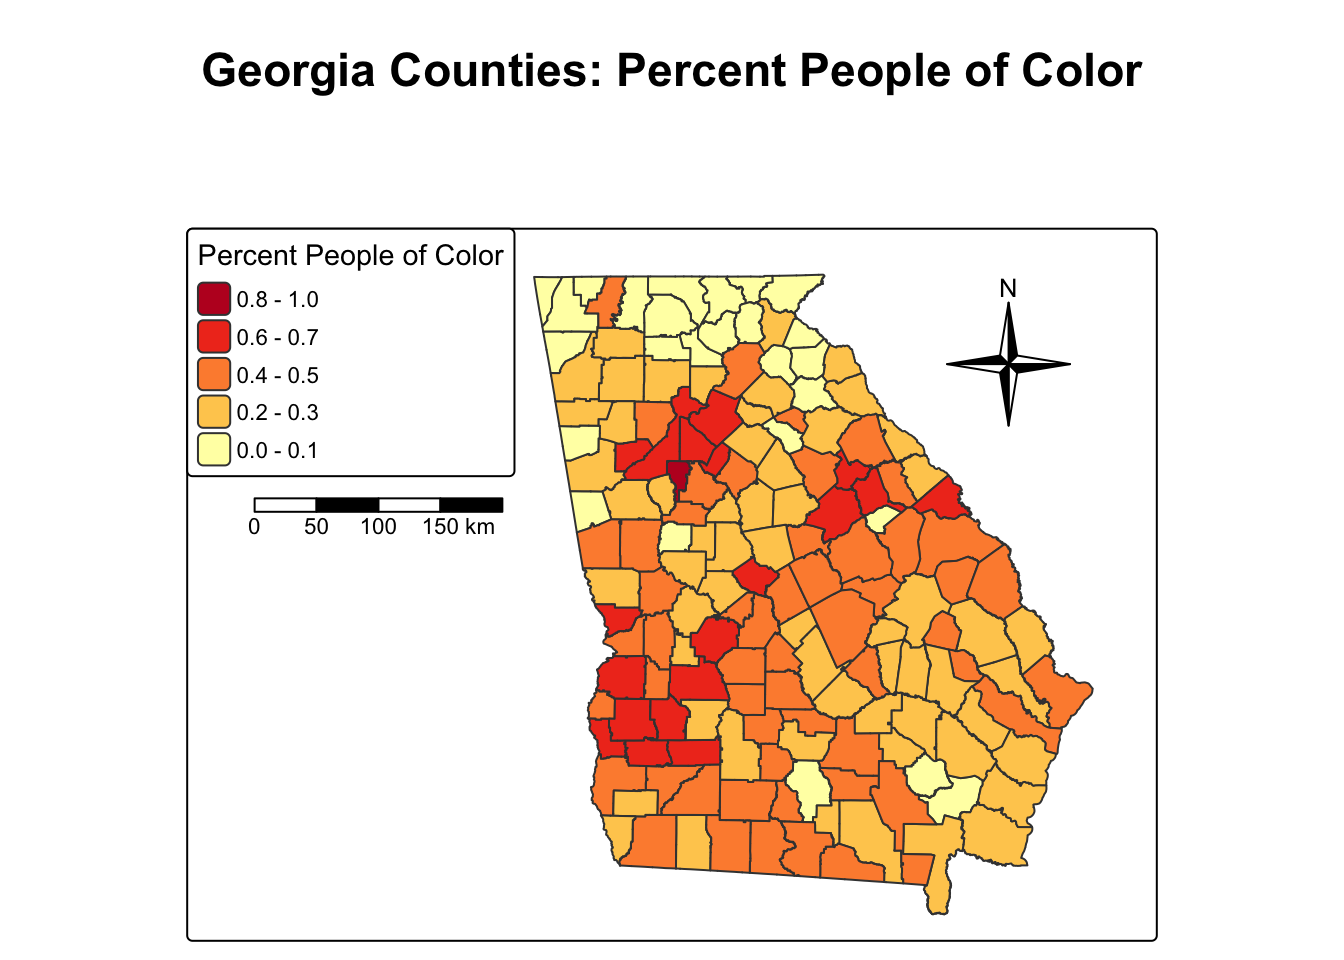
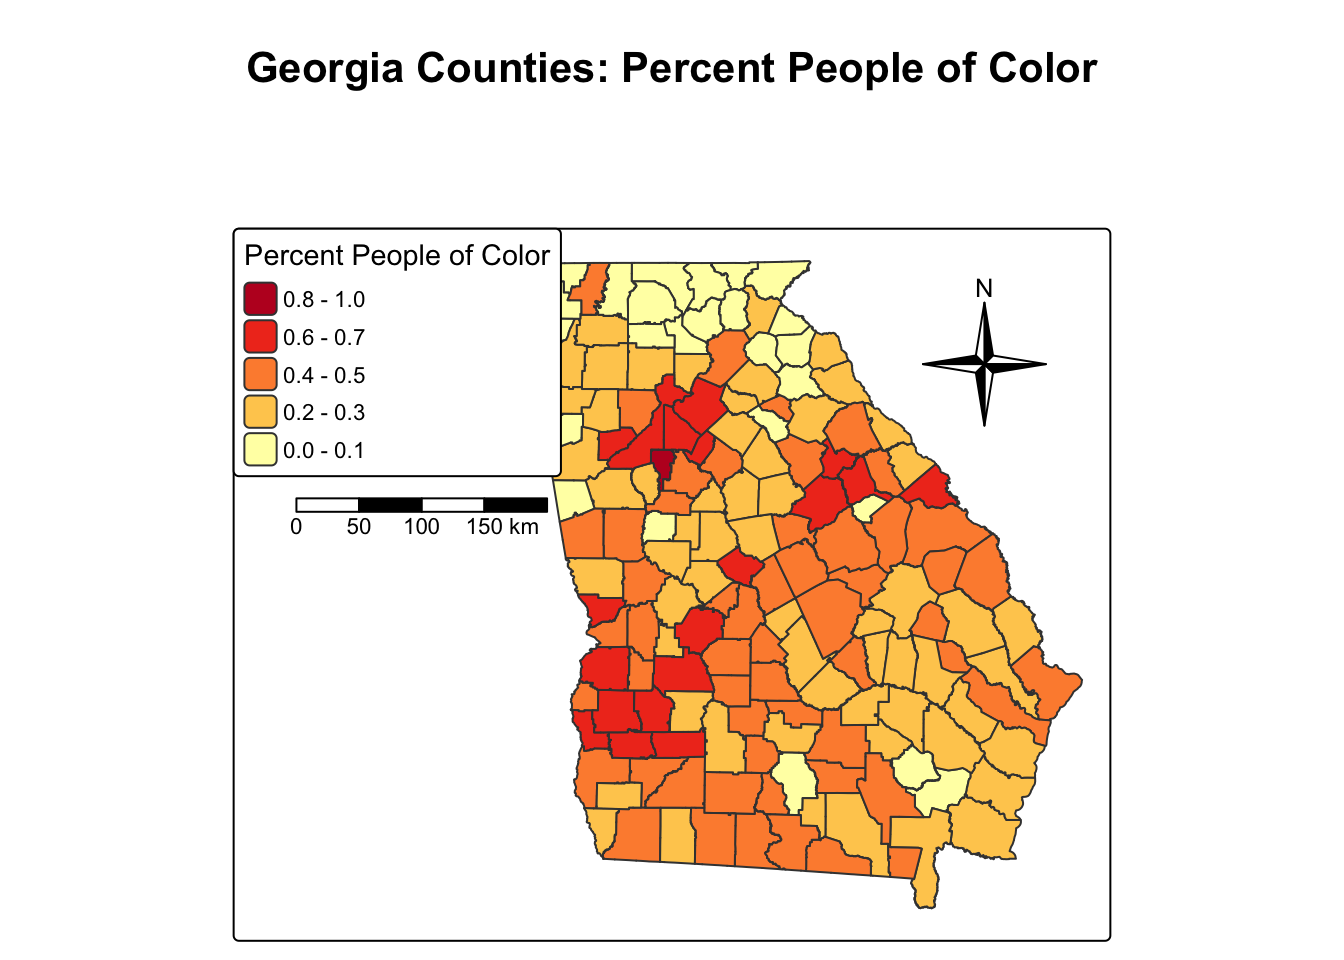
Update bbox

Changed region(s): [[0.125, 0.25, 0.8125, 0.9688], [0.125, 0.0312, 0.8438, 0.0938], [0.6875, 0.2812, 0.7812, 0.4375]]

diff --git a/eds223-hw1/ej_screen.html b/eds223-hw1/ej_screen.html
@@ -136,7 +136,7 @@ Projected CRS: WGS 84 / Pseudo-Mercator</code></pre>
 </div>
 <div class="cell">
 <div class="sourceCode cell-code" id="cb6"><pre class="sourceCode r code-with-copy"><code class="sourceCode r"><span id="cb6-1"><a href="#cb6-1" aria-hidden="true" tabindex="-1"></a><span class="co"># Create first map</span></span>
-<span id="cb6-2"><a href="#cb6-2" aria-hidden="true" tabindex="-1"></a><span class="fu">tm_shape</span>(georgia_counties_means, <span class="at">bbox =</span> bbox_georgia) <span class="sc">+</span></span>
+<span id="cb6-2"><a href="#cb6-2" aria-hidden="true" tabindex="-1"></a><span class="fu">tm_shape</span>(georgia_counties_means) <span class="sc">+</span></span>
 <span id="cb6-3"><a href="#cb6-3" aria-hidden="true" tabindex="-1"></a>  <span class="fu">tm_crs</span>(<span class="dv">4326</span>) <span class="sc">+</span> <span class="co"># Specify crs</span></span>
 <span id="cb6-4"><a href="#cb6-4" aria-hidden="true" tabindex="-1"></a>  <span class="fu">tm_polygons</span>(<span class="at">fill =</span> <span class="st">"PEOPCOLORPCT"</span>,</span>
 <span id="cb6-5"><a href="#cb6-5" aria-hidden="true" tabindex="-1"></a>              <span class="at">fill.scale =</span> <span class="fu">tm_scale</span>(<span class="at">values =</span> <span class="st">'brewer.yl_or_rd'</span>),</span>
@@ -156,7 +156,7 @@ Projected CRS: WGS 84 / Pseudo-Mercator</code></pre>
 </div>
 <div class="cell">
 <div class="sourceCode cell-code" id="cb7"><pre class="sourceCode r code-with-copy"><code class="sourceCode r"><span id="cb7-1"><a href="#cb7-1" aria-hidden="true" tabindex="-1"></a><span class="co"># Create second map</span></span>
-<span id="cb7-2"><a href="#cb7-2" aria-hidden="true" tabindex="-1"></a><span class="fu">tm_shape</span>(georgia_counties_means, <span class="at">bbox =</span> bbox_georgia) <span class="sc">+</span></span>
+<span id="cb7-2"><a href="#cb7-2" aria-hidden="true" tabindex="-1"></a><span class="fu">tm_shape</span>(georgia_counties_means) <span class="sc">+</span></span>
 <span id="cb7-3"><a href="#cb7-3" aria-hidden="true" tabindex="-1"></a>  <span class="fu">tm_crs</span>(<span class="dv">4326</span>) <span class="sc">+</span></span>
 <span id="cb7-4"><a href="#cb7-4" aria-hidden="true" tabindex="-1"></a>  <span class="fu">tm_polygons</span>(<span class="at">fill =</span> <span class="st">"RESP"</span>,</span>
 <span id="cb7-5"><a href="#cb7-5" aria-hidden="true" tabindex="-1"></a>              <span class="at">fill.scale =</span> <span class="fu">tm_scale</span>(<span class="at">values =</span> <span class="st">'brewer.yl_or_rd'</span>),</span>
